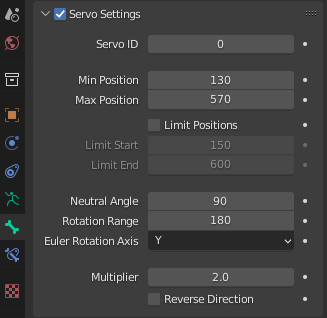
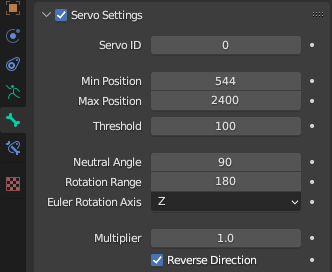
update readme

diff --git a/README.md b/README.md
@@ -42,9 +42,7 @@ The underlying principle is that each bone represents a servo motor in the real 
 | Servo ID | Unique number between `0` and `255` to identify this servo (used to send live commands) |
 | Position Min | The minimum position value to identify this servo physically stops moving |
 | Position Max | Same as `Position Min`, but for the maximum value |
-| Set Position Limits | Define a position range to limit the calculated position values according to a specific build |
-| Position Limit Start | The minimum position value before the servo is supposed to stop moving within a specific build |
-| Position Limit End | Same as `Position Limit Start`, but for the end value |
+| Threshold | The maximum value change between frames which is also used for frame jump handling in live mode |
 | Neutral Angle | The assumed neutral angle of the servo in degrees (typically half the rotation range) which should be adjusted carefully, since the servo will first move to its 'natural' neutral angle when powered |
 | Rotation Range | The manufactured rotation range of the servo in degrees (typically `180`) |
 | Euler Rotation Axis | The Euler rotation axis (`X`, `Y` or `Z`) of the bone rotation representing the servo movement |
@@ -61,9 +59,7 @@ It is also possible to use a different kind of value range. For example, to use 
 
 ### Limiting the value range
 
-The possible range of motion of a servo can be influenced by the specific design of your build. In this case, you can measure and use the position limit values to avoid damage to your setup.
-
-You can also take advantage of Blender's functionality and use [bone constraints](https://docs.blender.org/manual/en/latest/animation/constraints/transform/limit_rotation.html) to already limit the bone rotation according to your build. The more precise your 3D model, the easier it will be to apply constraints and get an accurate preview of the real-world setup.
+You can take advantage of Blender's functionality and use [bone constraints](https://docs.blender.org/manual/en/latest/animation/constraints/transform/limit_rotation.html) to already limit the bone rotation according to your build. The more precise your 3D model, the easier it will be to apply constraints and get an accurate preview of the real-world setup.
 
 ## Animating the Armature
 
@@ -139,9 +135,11 @@ Clicking the `Connect` button will then establish a tcp connection and start the
 
 ### Position Jump Handling
 
-Once the connection is established, you can use the timeline to control your servos in a synchronized way. This opens up the possibility to jump to a different frame or position within your animation. To prevent damage due to the servos moving too quickly, you can use `Position Jump Handling` and define a respective `Threshold`. This option is enabled by default.
+Once the connection is established, you can use the timeline to control your servos in a synchronized way. This opens up the possibility to jump to a different frame or position within your animation. To prevent damage due to the servos moving too quickly, you can use `Position Jump Handling`. This option is enabled by default.
 
-When clicking somewhere in the timeline and therefore jumping to a different frame, the add-on will first calculate all position value differences. If one of those differences exceeds the `Threshold` value, the servos will be slowly moved to their new target position. This is done by sending multiple position values in small increments. During this process, the user interface will show a progress indicator.
+When clicking somewhere in the timeline and therefore jumping to a different frame, the add-on will first calculate all position value differences. If one of those differences exceeds the `Threshold` value of the respective servos, they will be slowly moved to their new target position. This is done by sending multiple position values in small increments. During this process, the user interface will show a progress indicator.
+
+The speed of this process is also relative to the configured `Threshold` values. A slower and safer movement can be achieved by setting the threshold values as low as possible with the actual animation still able to run properly.
 
 ### Command Protocol
 
